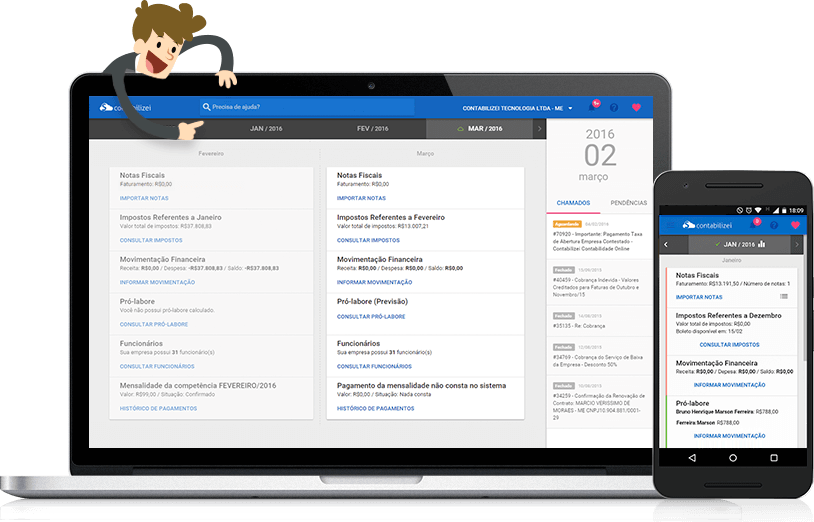
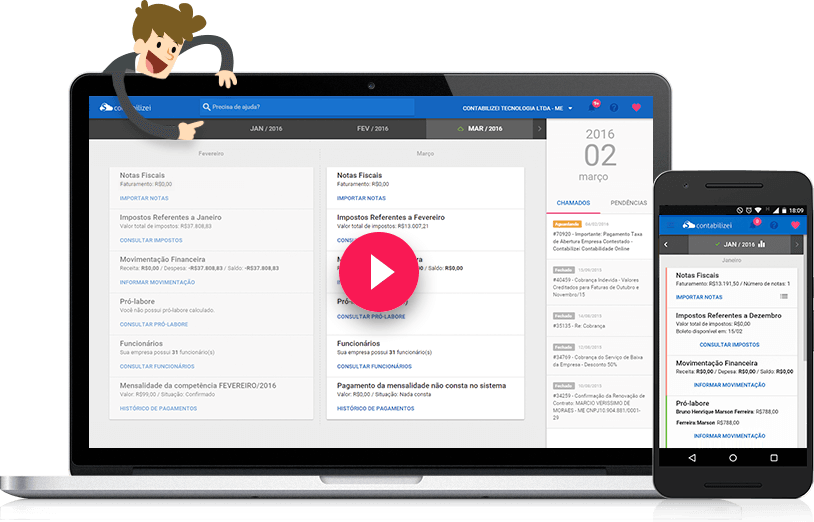
Img com play.

Changed region(s): [[0.3993, 0.4291, 0.5221, 0.6437]]

diff --git a/index.html b/index.html
@@ -189,7 +189,7 @@
               
                 <h1 class="primary animated fadeInDown"> Escritório de contabilidade online  <br class="hidden-xs">a partir de R$49/mês.</h1>
               
-                <a href="#videoInstitucional" data-toggle="modal"><img src="/assets/img/dashboard2016.png" width="814" height="522" alt="Dashboard 2016 Contabilizei Contabilidade Online" class="img-responsive animated fadeIn"></a>           
+                <a href="#videoInstitucional" data-toggle="modal"><img src="/assets/img/dashboard2016.png" width="814" height="522" alt="Dashboard 2016 Contabilizei Contabilidade Online" title="Assista ao nosso vídeo, é só 1 minutinho..." class="img-responsive animated fadeIn"></a>           
               
           </div> 
       </div>
@@ -208,7 +208,7 @@
                      
                   </div>
                   <div class="modal-body">
-                    <p><iframe class="embed-responsive-item" src="//fast.wistia.net/embed/iframe/9bddq9z2ql?videoFoam=true" allowtransparency="true" frameborder="0" scrolling="no" name="wistia_embed" allowautoplay="true" allowfullscreen="allowfullscreen" mozallowfullscreen="mozallowfullscreen" webkitallowfullscreen="webkitallowfullscreen" oallowfullscreen="oallowfullscreen" msallowfullscreen="msallowfullscreen" width="636" height="358" style="width: 636px; height: 358px;"></iframe><script async src="//fast.wistia.net/assets/external/iframe-api-v1.js"></script></p>
+                    <p><iframe class="embed-responsive-item" src="//fast.wistia.net/embed/iframe/9bddq9z2ql?videoFoam=true" allowtransparency="true" frameborder="0" scrolling="no" name="wistia_embed"  allowfullscreen="allowfullscreen" mozallowfullscreen="mozallowfullscreen" webkitallowfullscreen="webkitallowfullscreen" oallowfullscreen="oallowfullscreen" msallowfullscreen="msallowfullscreen" width="636" height="358" style="width: 636px; height: 358px;"></iframe><script async src="//fast.wistia.net/assets/external/iframe-api-v1.js"></script></p>
                   </div>
                   <div class="modal-footer visible-xs">
                     <button type="button" class="btn btn-default" data-dismiss="modal">Fechar</button>
@@ -848,6 +848,7 @@
     <link rel="stylesheet" href="//maxcdn.bootstrapcdn.com/font-awesome/4.5.0/css/font-awesome.min.css">
         
      <script type="text/javascript" src="/assets/js/scroll.js"></script>
+   
 
     </body>
 </html>
